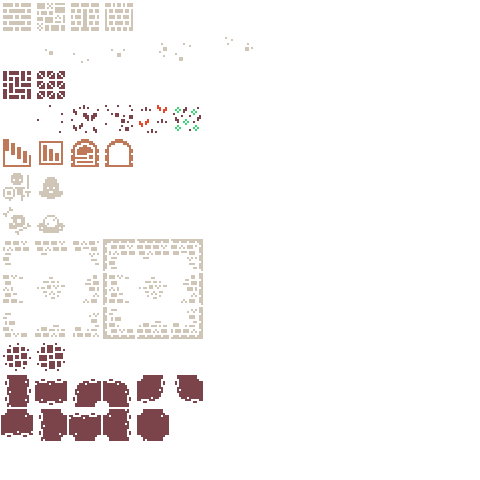
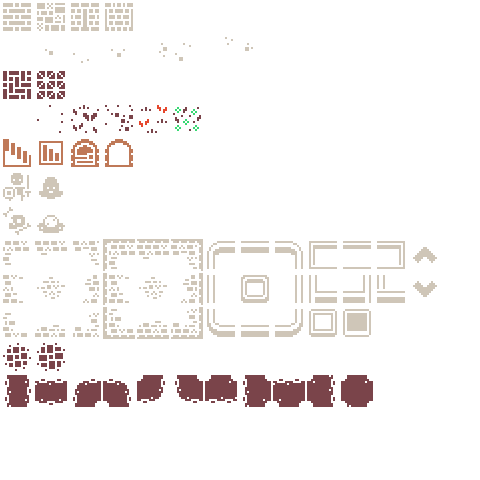
Using paths for cave walls. Screenshots included.

diff --git a/Rogue.js b/Rogue.js
@@ -3,6 +3,20 @@ const ROT = require('rot-js');
 const fs = require('fs');
 var os = require('os');
 
+// #: Room wall
+// &: Hallway wall
+// %: Cave wall
+const WALL_TILES = ['#', '&', '%'];
+
+// .: Room floor
+// ,: Hallway floor
+// `: Cave floor
+const FLOOR_TILES = ['.', ',', '`'];
+
+// +: Closed door
+// -: Open door
+const OTHER_WALKABLE_TILES = ['+', '-'];
+
 var sg = new ROT.StringGenerator();
 
 var nameFile = '';
@@ -187,7 +201,8 @@ class Floor {
             for (var j = 0; j < height; j++) {
                 for (var i = 0; i < width; i++) {
                     if (cellMap._map[i][j]) {
-                        this.map[i+','+j] = '%';
+                        // Cave floor
+                        this.map[i+','+j] = '`';
                     } else {
                         this.map[i+','+j] = ' '
                     }
@@ -197,7 +212,8 @@ class Floor {
             var digger = new ROT.Map.Digger(width, height, {roomWidth:[3,7], roomHeight:[3,7], corridorLength:[2,10], dugPercentage:0.2});
             var digCallback = function(x,y, value) {
                 var key = x + "," + y;
-                if (value) { if (this.map[x+','+y] != '%') { this.map[key] = ' ';}}
+                // Only add room wall if there isn't a cave floor there.
+                if (value) { if (this.map[x+','+y] != '`') { this.map[key] = ' ';}}
                 else { this.map[key] = ".";}// Walls: ' ' Floor: '.'
             }
         } else {        
@@ -241,8 +257,11 @@ class Floor {
                     if (surroundingTiles.includes(".")) {
                         // If a blank tile has a floor tile around it, then the blank tile needs to be a wall
                         this.map[x +","+y] = "#";
-                    } else if (surroundingTiles.includes(",") || surroundingTiles.includes("%")) {
+                    } else if (surroundingTiles.includes(",")) {
+                        // If the surrounding tile includes a hallway or a cave floor, add a cave wall.
                         this.map[x+","+y] = "&";
+                    } else if (surroundingTiles.includes("`")) {
+                        this.map[x+","+y] = "%";
                     }
                 }
             }
@@ -269,7 +288,7 @@ class Floor {
         this.placeEnemies();
         this.dijkstra = new ROT.Path.Dijkstra(this.playerX, this.playerY, function (x, y) {
             if (this.map) {
-                return ((this.map[x+','+y] === '.') || (this.map[x+','+y] === ',') || (this.map[x+','+y] === '-') || (this.map[x+','+y] === '+') || (this.map[x+','+y] === '%'))
+                return ((this.map[x+','+y] === '.') || (this.map[x+','+y] === ',') || (this.map[x+','+y] === '-') || (this.map[x+','+y] === '+') || (this.map[x+','+y] === '`'))
             } else {
                 return false;
             }
@@ -289,7 +308,7 @@ class Floor {
         // Player's field-of-view light input callback
         var lightPasses = function(x,y) {
             var key = x+","+y;
-            if (key in localMap) { return ((localMap[key] == ".") || (localMap[key] == ",") || localMap[key] == "-" || localMap[key] == "<" || localMap[key] == ">" || localMap[key] == "%"); }
+            if (key in localMap) { return ((localMap[key] == ".") || (localMap[key] == ",") || localMap[key] == "-" || localMap[key] == "<" || localMap[key] == ">" || localMap[key] == "`"); }
             return false;
         }
         
@@ -380,8 +399,12 @@ class Floor {
         }
 
         switch (this.map[x+","+y]) {
+            // Hallway Wall
             case '&':
+            // Room Wall
             case '#':
+            // Cave Wall
+            case '%':
                 return false;
             default:
                 return true;
@@ -459,6 +482,45 @@ class Floor {
         if cave_floor:
             cave_floor_2-6 and prioritize higher numbers
 
+
+            TODO: Modify the map creation and tiles to add cave walls.
+            % is the cave floor tiles.
+                     #####  %%%%%#####&&
+                    #...# %%`````...+,&
+                    #...# %``````...`,&
+                    #...# %%`````...`,&
+                    #...#  %%%%%`````,&
+                &&#...#&&&&&&&&&```,&
+            %%%&,+...+,,,,,,,,,&%&,&
+            %%``&,#...#&&######+##&,&
+            %```&,#####  #.......+,,&
+        %%%  %``%&,&      #.......#&&&
+        %%`%% %``%&,&      #.......#   
+        %```% %``%&,&      #.......#   
+    %%```% %%%%&,&    %%#.......#   
+    %```%%     &,&   %%``.......#   
+    %```%      &,&   %```+#######   
+    %```%      &,&   %```,&%        
+    %%%%%#######+#####%``,`%        
+            #....#......#%%`,&%        
+            #....#......# %&,&         
+    %%%%%  #....+...<..#  &,&         
+    %```%  ######......#  &,&         
+    %```%       #......#  &,&         
+    %%`%%   %%% ########  &,&   ##### 
+    %%%    %`%%       ####+#   #...# 
+            %``%       #....#%  #.>.# 
+            %`%%       #....`%  #...# 
+            %%%        #....#%#####+# 
+                    %#....# #.....# 
+                    %%``+### #.....# 
+                    %```,&%  #.....# 
+        %%%        %```,`%% #.....# 
+        %%`%%       %%``,``% #.....# 
+        %```%        %%`,`&&&##+#### 
+        %```%         %&,,,,,,,,&    
+        %%%%%          &&&&&&&&&&        
+                                                    
 
 
         */
@@ -563,7 +625,7 @@ class Floor {
                     case '-':
                         tileData = "doorOpen";
                         break;
-                    case '%':
+                    case '`':
                         // Cave floor
                         tileData = "cave";
                         break;
@@ -601,6 +663,51 @@ class Floor {
                         }
                         tileData = name;
                         break;
+                    case '%':
+                            function getMapTile(x, y) {
+                                var tile = localMap[x+","+y];
+                                if (tile)
+                                    return tile
+                                return " "
+                            }
+                            var surroundingTiles = [getMapTile(x,y-1), getMapTile(x,y+1), getMapTile(x+1,y), getMapTile(x-1,y)];
+                            
+                            var connectedWalls = '';
+
+                            if (WALL_TILES.includes(surroundingTiles[0])) {
+                                connectedWalls += 'N';
+                            }
+                            if (WALL_TILES.includes(surroundingTiles[1])) {
+                                connectedWalls += 'S';
+                            }
+                            if (WALL_TILES.includes(surroundingTiles[2])) {
+                                connectedWalls += 'E';
+                            }
+                            if (WALL_TILES.includes(surroundingTiles[3])) {
+                                connectedWalls += 'W';
+                            }
+                            
+                            tileData = "cave_wall_" + connectedWalls;
+                            
+                            var validTiles = [
+                                "cave_wall_NS",
+                                "cave_wall_EW",
+                                "cave_wall_SE",
+                                "cave_wall_SW",
+                                "cave_wall_NW",
+                                "cave_wall_NE",
+                                "cave_wall_NEW",
+                                "cave_wall_NSE",
+                                "cave_wall_SEW",
+                                "cave_wall_NSW",
+                                "cave_wall_NSEW"
+                            ];
+                            if (!validTiles.includes(tileData)) {
+                                console.log(`ERROR: Invalid tile at ${x},${y}: ${tileData}`)
+                                tileData = "door_floor_wear_1";
+                            }
+                            
+                            break;
                     default:
                         tileData = mapData;
                 }
@@ -675,7 +782,7 @@ class Enemy {
     calculateMove(playerX, playerY, map) {
         var dijkstra = new ROT.Path.Dijkstra(playerX, playerY, function (x, y) {
             if (map) {
-                return ((map[x+','+y] === '.') || (map[x+','+y] === ',') || (map[x+','+y] === '-') || (map[x+','+y] === '+') || (map[x+','+y] === '%'))
+                return ((map[x+','+y] === '.') || (map[x+','+y] === ',') || (map[x+','+y] === '-') || (map[x+','+y] === '+') || (map[x+','+y] === '`'))
             } else {
                 return false;
             }

diff --git a/js/Game.js b/js/Game.js
@@ -854,6 +854,7 @@ function canWalk(x, y) {
     switch (level.map[x+','+y]) {
         case '&':
         case '#':
+        case '%':
             return false;
         default:
             return true;
